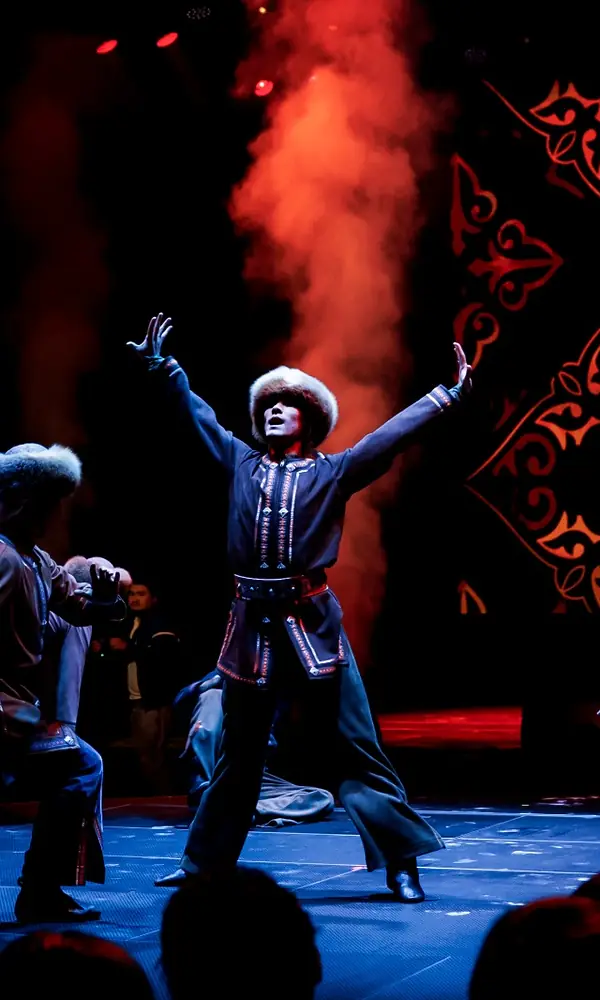
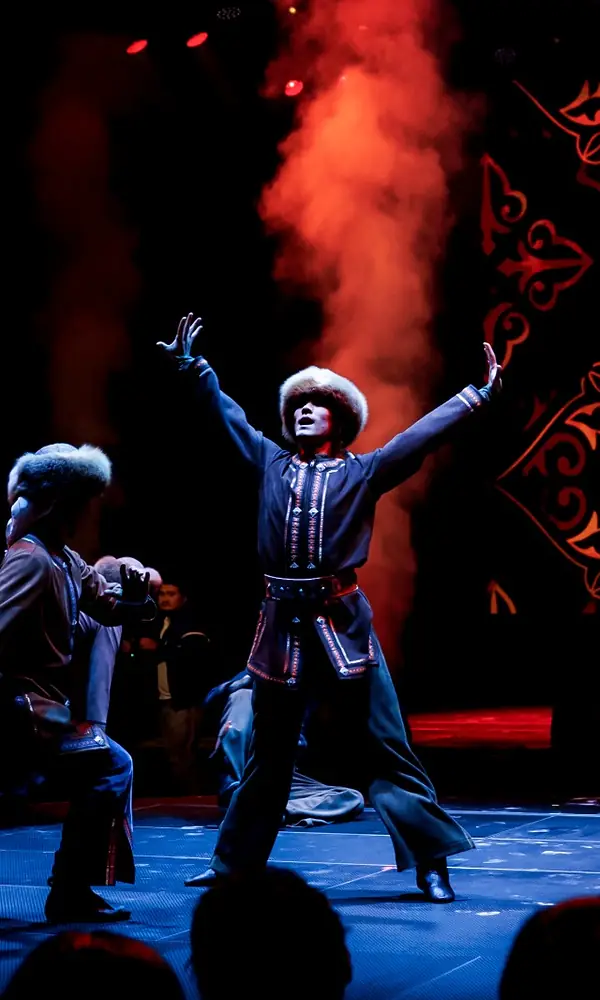
Лента фото аренды: кадры перерезаны по главному — виден пианист, центральный музыкант трио, гимнастка над манежем, аплодирующая пара

diff --git a/tools/build-images.py b/tools/build-images.py
@@ -254,9 +254,11 @@ def og():
 # не берём: это меньшие копии Photo-0153 и 2.jpeg.
 HALL_SRC = os.path.join(os.path.dirname(__file__), '..', 'new photos for hall')
 # (файл, где по горизонтали главное в кадре: 0 — левый край, 1 — правый) — плитка ленты вертикальная, режем вокруг него
-HALL_BG = [('Photo-91.jpg.jpeg', .5), ('Photo-104.jpg.jpeg', .5), ('ACM07923.jpg', .6), ('Photo-71.jpg.jpeg', .45),
-           ('Photo-128.jpg.jpeg', .55), ('2.jpeg', .43), ('Photo-0083.jpg.jpeg', .6), ('7.jpeg', .45), ('Photo-0105.jpg.jpeg', .45),
-           ('3.jpeg', .5), ('5.jpeg', .5), ('Photo-0153 (1).jpg.jpeg', .5), ('6.jpeg', .68)]
+HALL_BG = [('Photo-91.jpg.jpeg', .5), ('Photo-104.jpg.jpeg', .53), ('ACM07923.jpg', .42), ('Photo-71.jpg.jpeg', .5),
+           ('Photo-128.jpg.jpeg', .55), ('2.jpeg', .43), ('Photo-0083.jpg.jpeg', .6), ('7.jpeg', .43), ('Photo-0105.jpg.jpeg', .55),
+           ('3.jpeg', .5), ('5.jpeg', .65), ('Photo-0153 (1).jpg.jpeg', .5), ('6.jpeg', .68)]
+# центры подобраны по сетке на каждом кадре: пианист (.42), центральный музыкант трио (.53), гимнастка над манежем (.55),
+# аплодирующая пара в зале (.65) — вертикальная плитка берёт 40 % ширины, всю группу целиком в неё не вместить
 # первым не ставим 2.jpeg: надпись «MUSIC HALL» на экране сцены спорила бы с заголовком страницы
 
 
